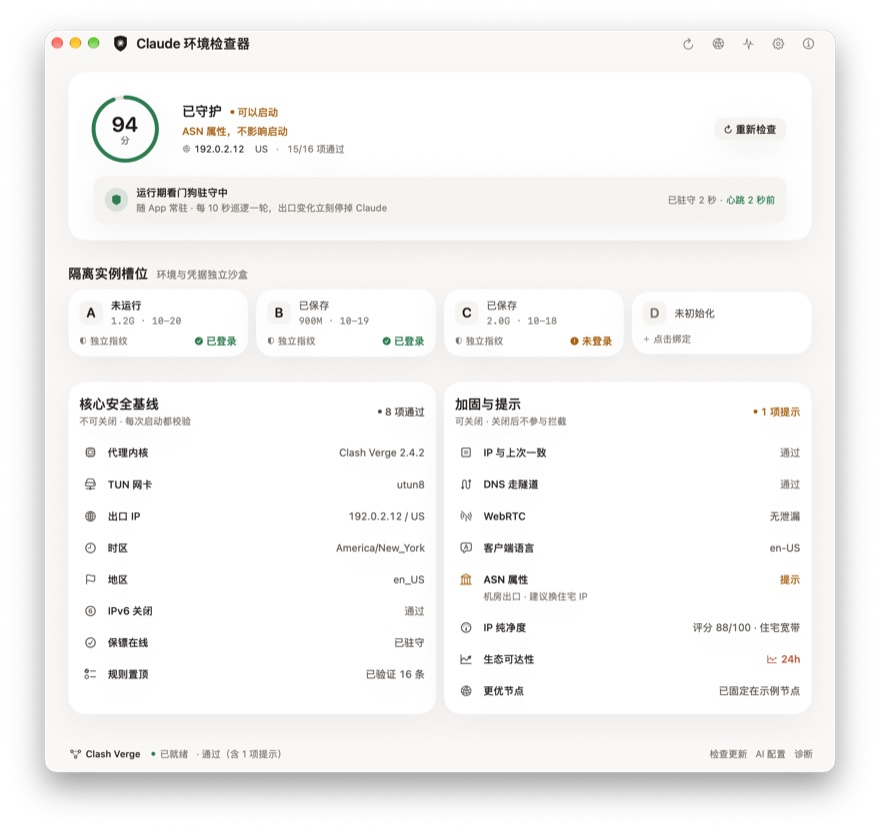
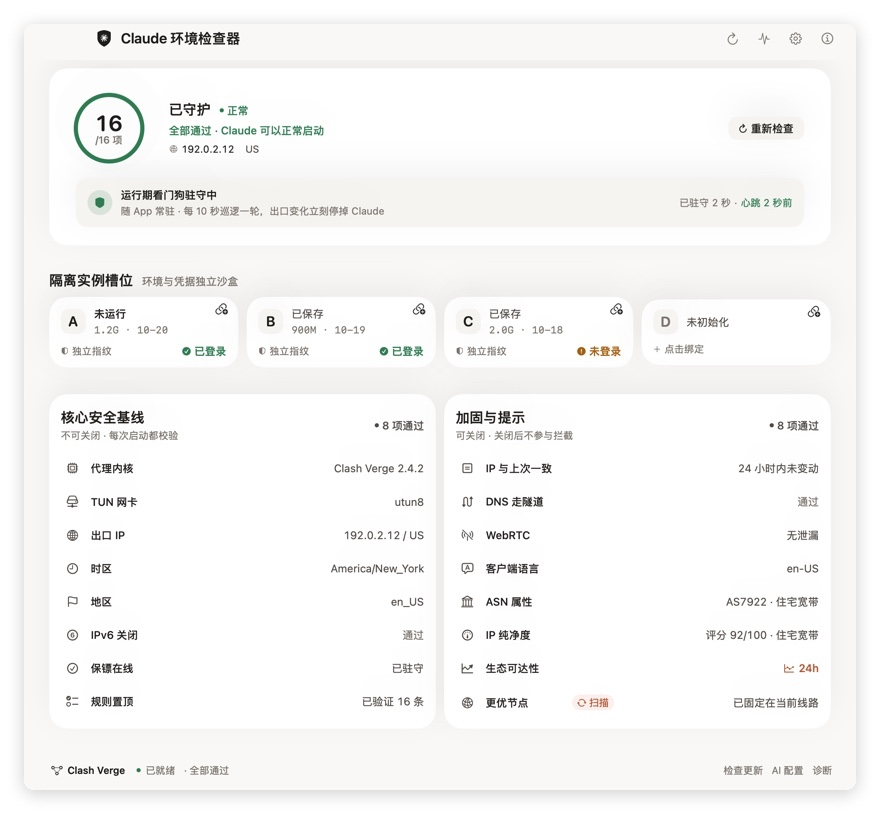
docs(shot): 重拍演示图,圆环改成通过项数;顺带修掉我上一条提交弄红的用例
上一版 lefthook 门禁漏掉这一格:`health_score_gates_on_hard_failure` 断言结论里写
「49 分」,而上一条提交把文案改成了「49/100」。全量 500 例里正是这 1 例红 ——
不是环境,是我自己改的措辞没同步用例。断言改成「49/100」,并保留「量级要带出来」
的原意(只是必须标明这是百分制参照分,不能裸写成整机得分)。

演示图:旧图上「ASN 属性 机房出口」与「IP 纯净度 88/100 住宅宽带」同屏矛盾,
且环里写的是「94 分」—— 正是这一版修掉的画面。三张全部换成本版界面:
- 圆环里只有「16 /16 项」,没有任何分数
- 徽章「已守护 · 正常」,结论「全部通过 · Claude 可以正常启动」
- 拍法:隔离探针复用生产 ContentView、不调 VM.start(),离屏 cacheDisplay 渲染
  (屏幕锁定时 screencapture 必然黑屏,这条路能出图),再合成圆角+投影+白底。
  演示数据全为 RFC 5737 保留地址 192.0.2.12,无真实账号 / IP / 凭据。
- MENU-BAR-TESTING.md 里「评分环」的说明跟着改掉。

测试:test_menu_bar_model 55 例 OK。

diff --git a/tests/MenuBarModelTests.swift b/tests/MenuBarModelTests.swift
@@ -532,7 +532,12 @@ struct MenuBarModelTests {
                 try expect(three.score == 70, "纯净度 49 → 身份 30 分，应为 70，实际 \(three.score)")
                 try expect(three.headline.contains("IP 纯净度") || three.headline.contains("IP纯净度"),
                            "结论要点纯净度，实际 \(three.headline)")
-                try expect(three.headline.contains("49 分"), "量级要带出来，实际 \(three.headline)")
+                // 2026-11-06:这里改成「49/100」而不是「49 分」。首页的环里已经
+                // 不再有任何分数,这句话如果再裸写「49 分」,读者会把它当成
+                // 「这台机器 49 分」—— 又回到「分数让人误会」那个坑里。
+                // 量级仍然必须带出来,只是要标明它是百分制参照分。
+                try expect(three.headline.contains("49/100"),
+                           "量级要带出来，且标明是百分制参照分，实际 \(three.headline)")
                 try expect(three.headline.contains("另有 2 项提示"), "另外两项一句话带过，实际 \(three.headline)")
 
                 // 权重的三条性质,分开钉住 —— 以后谁调权重,这几条会立刻告诉他

diff --git a/tests/MENU-BAR-TESTING.md b/tests/MENU-BAR-TESTING.md
@@ -63,7 +63,7 @@ _trash/menu-bar-demo/MenuBarFixture "$PWD/_trash/menu-bar-demo/fake-core.sh"
 
 截图只走隔离演示路径（`MenuBarFixture` 或复用生产 `ContentView`、不调用 `VM.start()` 的独立探针）。不要运行真实账号切换或把住宅/代理 IP、凭据放进截图。
 
-以下为隔离演示的主窗口截图，不是顶部状态栏下拉菜单截图。截图由隔离 UI 探针生成（复用生产 `ContentView`，不调用 `VM.start()`），展示浅色 / 深色两种系统控件外观；含 16 项检查清单、A–D 槽位与评分环；不含真实账号、出口 IP 或凭据：
+以下为隔离演示的主窗口截图，不是顶部状态栏下拉菜单截图。截图由隔离 UI 探针生成（复用生产 `ContentView`，不调用 `VM.start()`），展示浅色 / 深色两种系统控件外观；含 16 项检查清单、A–D 槽位，以及圆环里的**通过项数**（这一版起圆环不显示分数）；不含真实账号、出口 IP 或凭据：
 
 | 浅色系统控件 | 深色系统控件 |
 | --- | --- |
